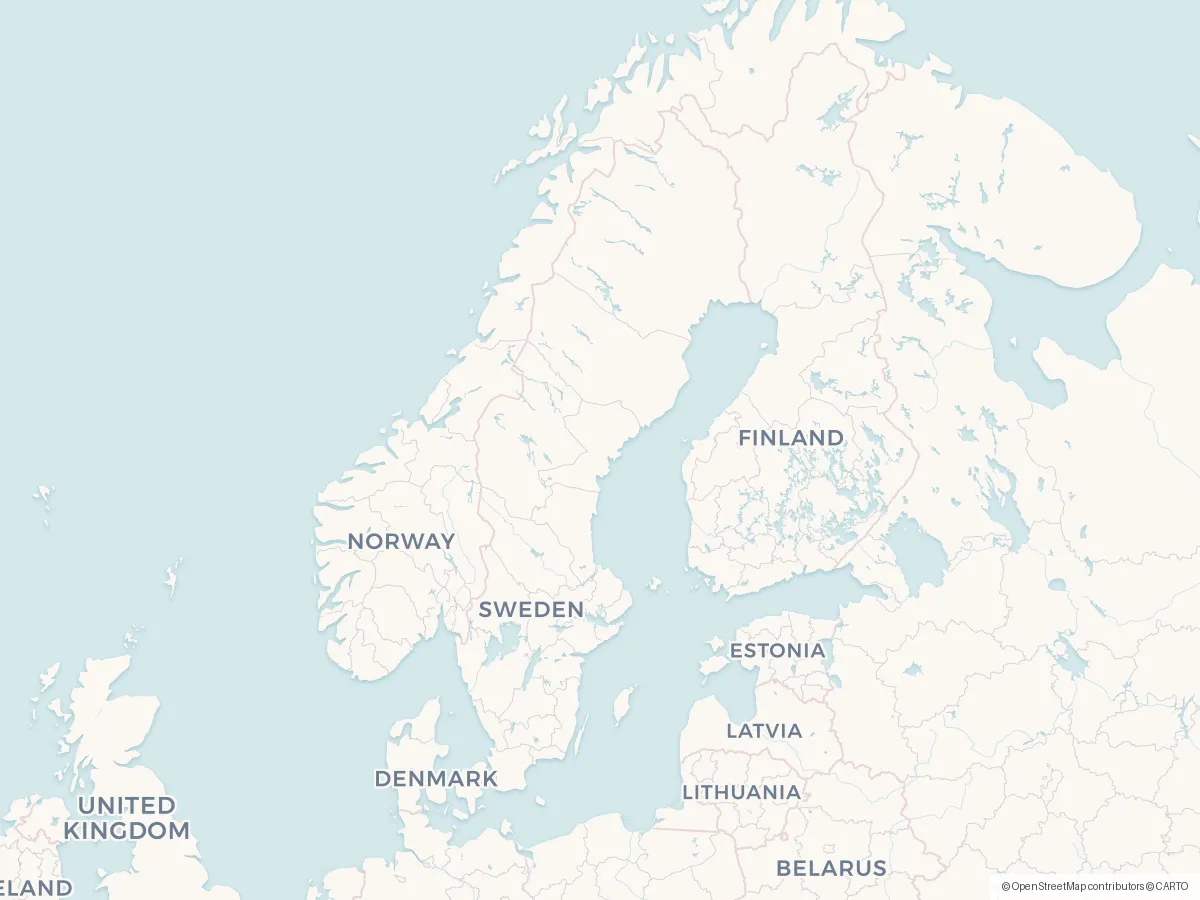
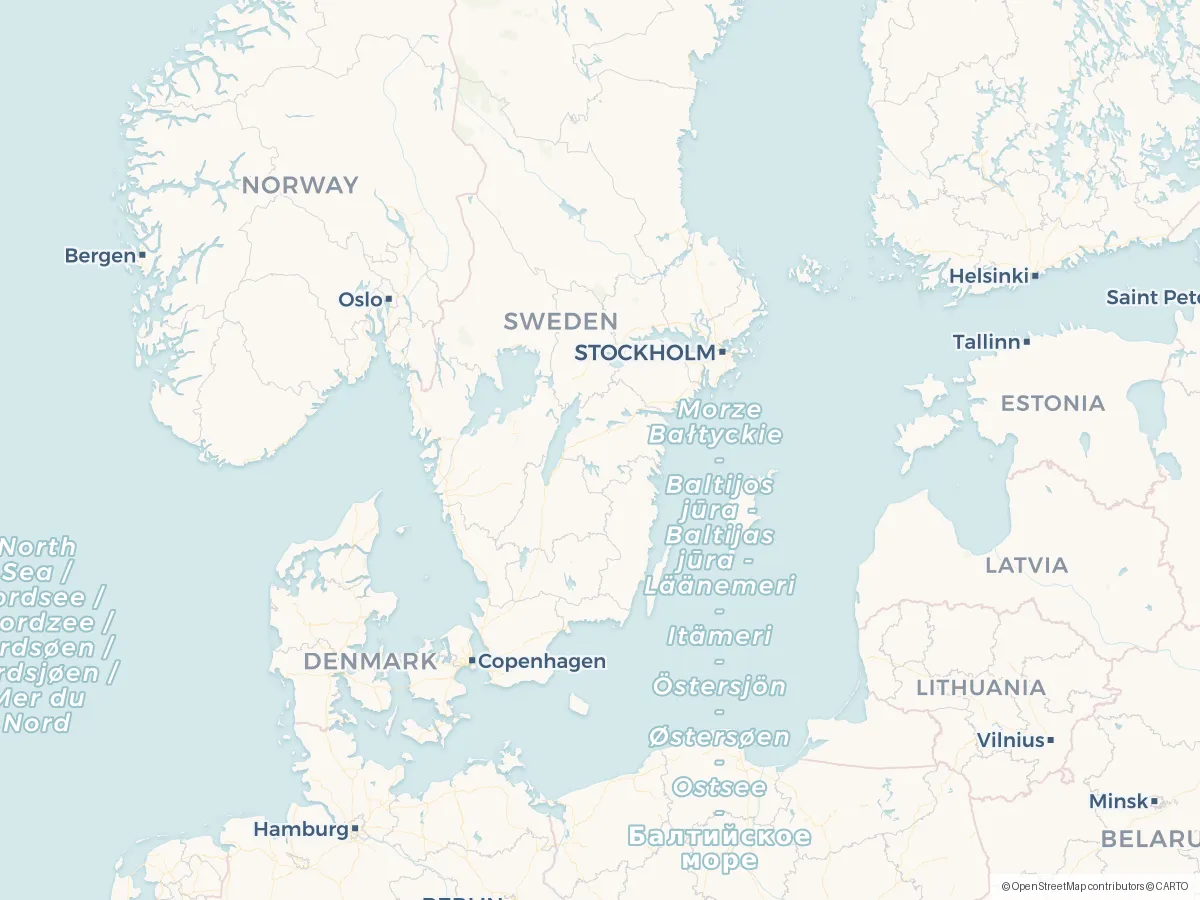
Del B (Cowork-QA) 1-4+7-8: död kartknapp, mobil-overflow, spökbanner, countup, {n}-strängar, SE-crop
B1 KRITISK: Load zones-knappen — pointer-events:none på skelettet (åt klicken),
data-msg-load-template kopplad (map.load ×27 var föräldralös; featureCount
tillagd i build-manifest → '366 zoner (0.1 MB)'-etikett), :global-pill-CSS
(JS-skapade element får inte Astro-scope). B2: hero__chip--frame min(48ch,100%)
+ min-width:0 (375px-overflow). B3: .langbanner[hidden]{display:none} (spök-
pill). B4: countup-clamp (negativa tal). B7: {n} felöversatt som egennamn i
meta.desc.hub/title.home (no/da/es/pt/el/sl/uk — 'organisationen 55') +
hub.inLanguage el/sl/uk. B8: SE-crop handvald (Götaland+Svealand — full bbox
gav UK→Belarus); UA-cropen visade sig redan korrekt i repot; CROP_OVERRIDES-
mekanism i render_static_maps.

diff --git a/src/scripts/motion.ts b/src/scripts/motion.ts
@@ -52,7 +52,9 @@ if (counters.length > 0) {
     const dur = Math.min(1400, 600 + target / 60); // större tal ≈ längre, tak 1,4 s
     const t0 = performance.now();
     const tick = (now: number) => {
-      const p = Math.min(1, (now - t0) / dur);
+      // Clamp nedåt: första rAF-timestampen kan ligga FÖRE t0 → negativ easing
+      // gav "-4 countries" på hemmet (Cowork-QA R2 §4).
+      const p = Math.min(1, Math.max(0, (now - t0) / dur));
       el.textContent = fmt(el, target * easeOutCubic(p));
       if (p < 1) requestAnimationFrame(tick);
     };

diff --git a/scripts/render_static_maps.py b/scripts/render_static_maps.py
@@ -40,6 +40,15 @@ def lonlat_to_pixels(lon: float, lat: float, z: int) -> tuple[float, float]:
     return x, y
 
 
+# Handvalda crops där landets fulla bbox ger oigenkännlig bild (Cowork-QA R2 §6):
+# avlånga länder tvingar ner zoomen tills allt ryms → SE blev "UK→Belarus".
+# Syftet med cropen är IGENKÄNNING, inte fullständighet — visa den del av
+# landet folk känner igen. (lat_min, lat_max, lon_min, lon_max)
+CROP_OVERRIDES = {
+    "SE": (55.4, 60.8, 11.6, 19.2),  # Götaland+Svealand: Sthlm/Gbg/Malmö, Vänern/Vättern
+}
+
+
 def pick_zoom(lat_min, lat_max, lon_min, lon_max) -> int:
     for z in range(11, 2, -1):
         x0, y1 = lonlat_to_pixels(lon_min, lat_min, z)
@@ -125,7 +134,8 @@ def main():
             skipped += 1
             continue
         print(f"{iso} …", flush=True)
-        img = render(iso, (c["latMin"], c["latMax"], c["lonMin"], c["lonMax"]), session)
+        bbox = CROP_OVERRIDES.get(iso) or (c["latMin"], c["latMax"], c["lonMin"], c["lonMax"])
+        img = render(iso, bbox, session)
         img.save(out, "WEBP", quality=80)
         print(f"  ✓ {out.name} ({out.stat().st_size // 1024} kB)")
         done += 1